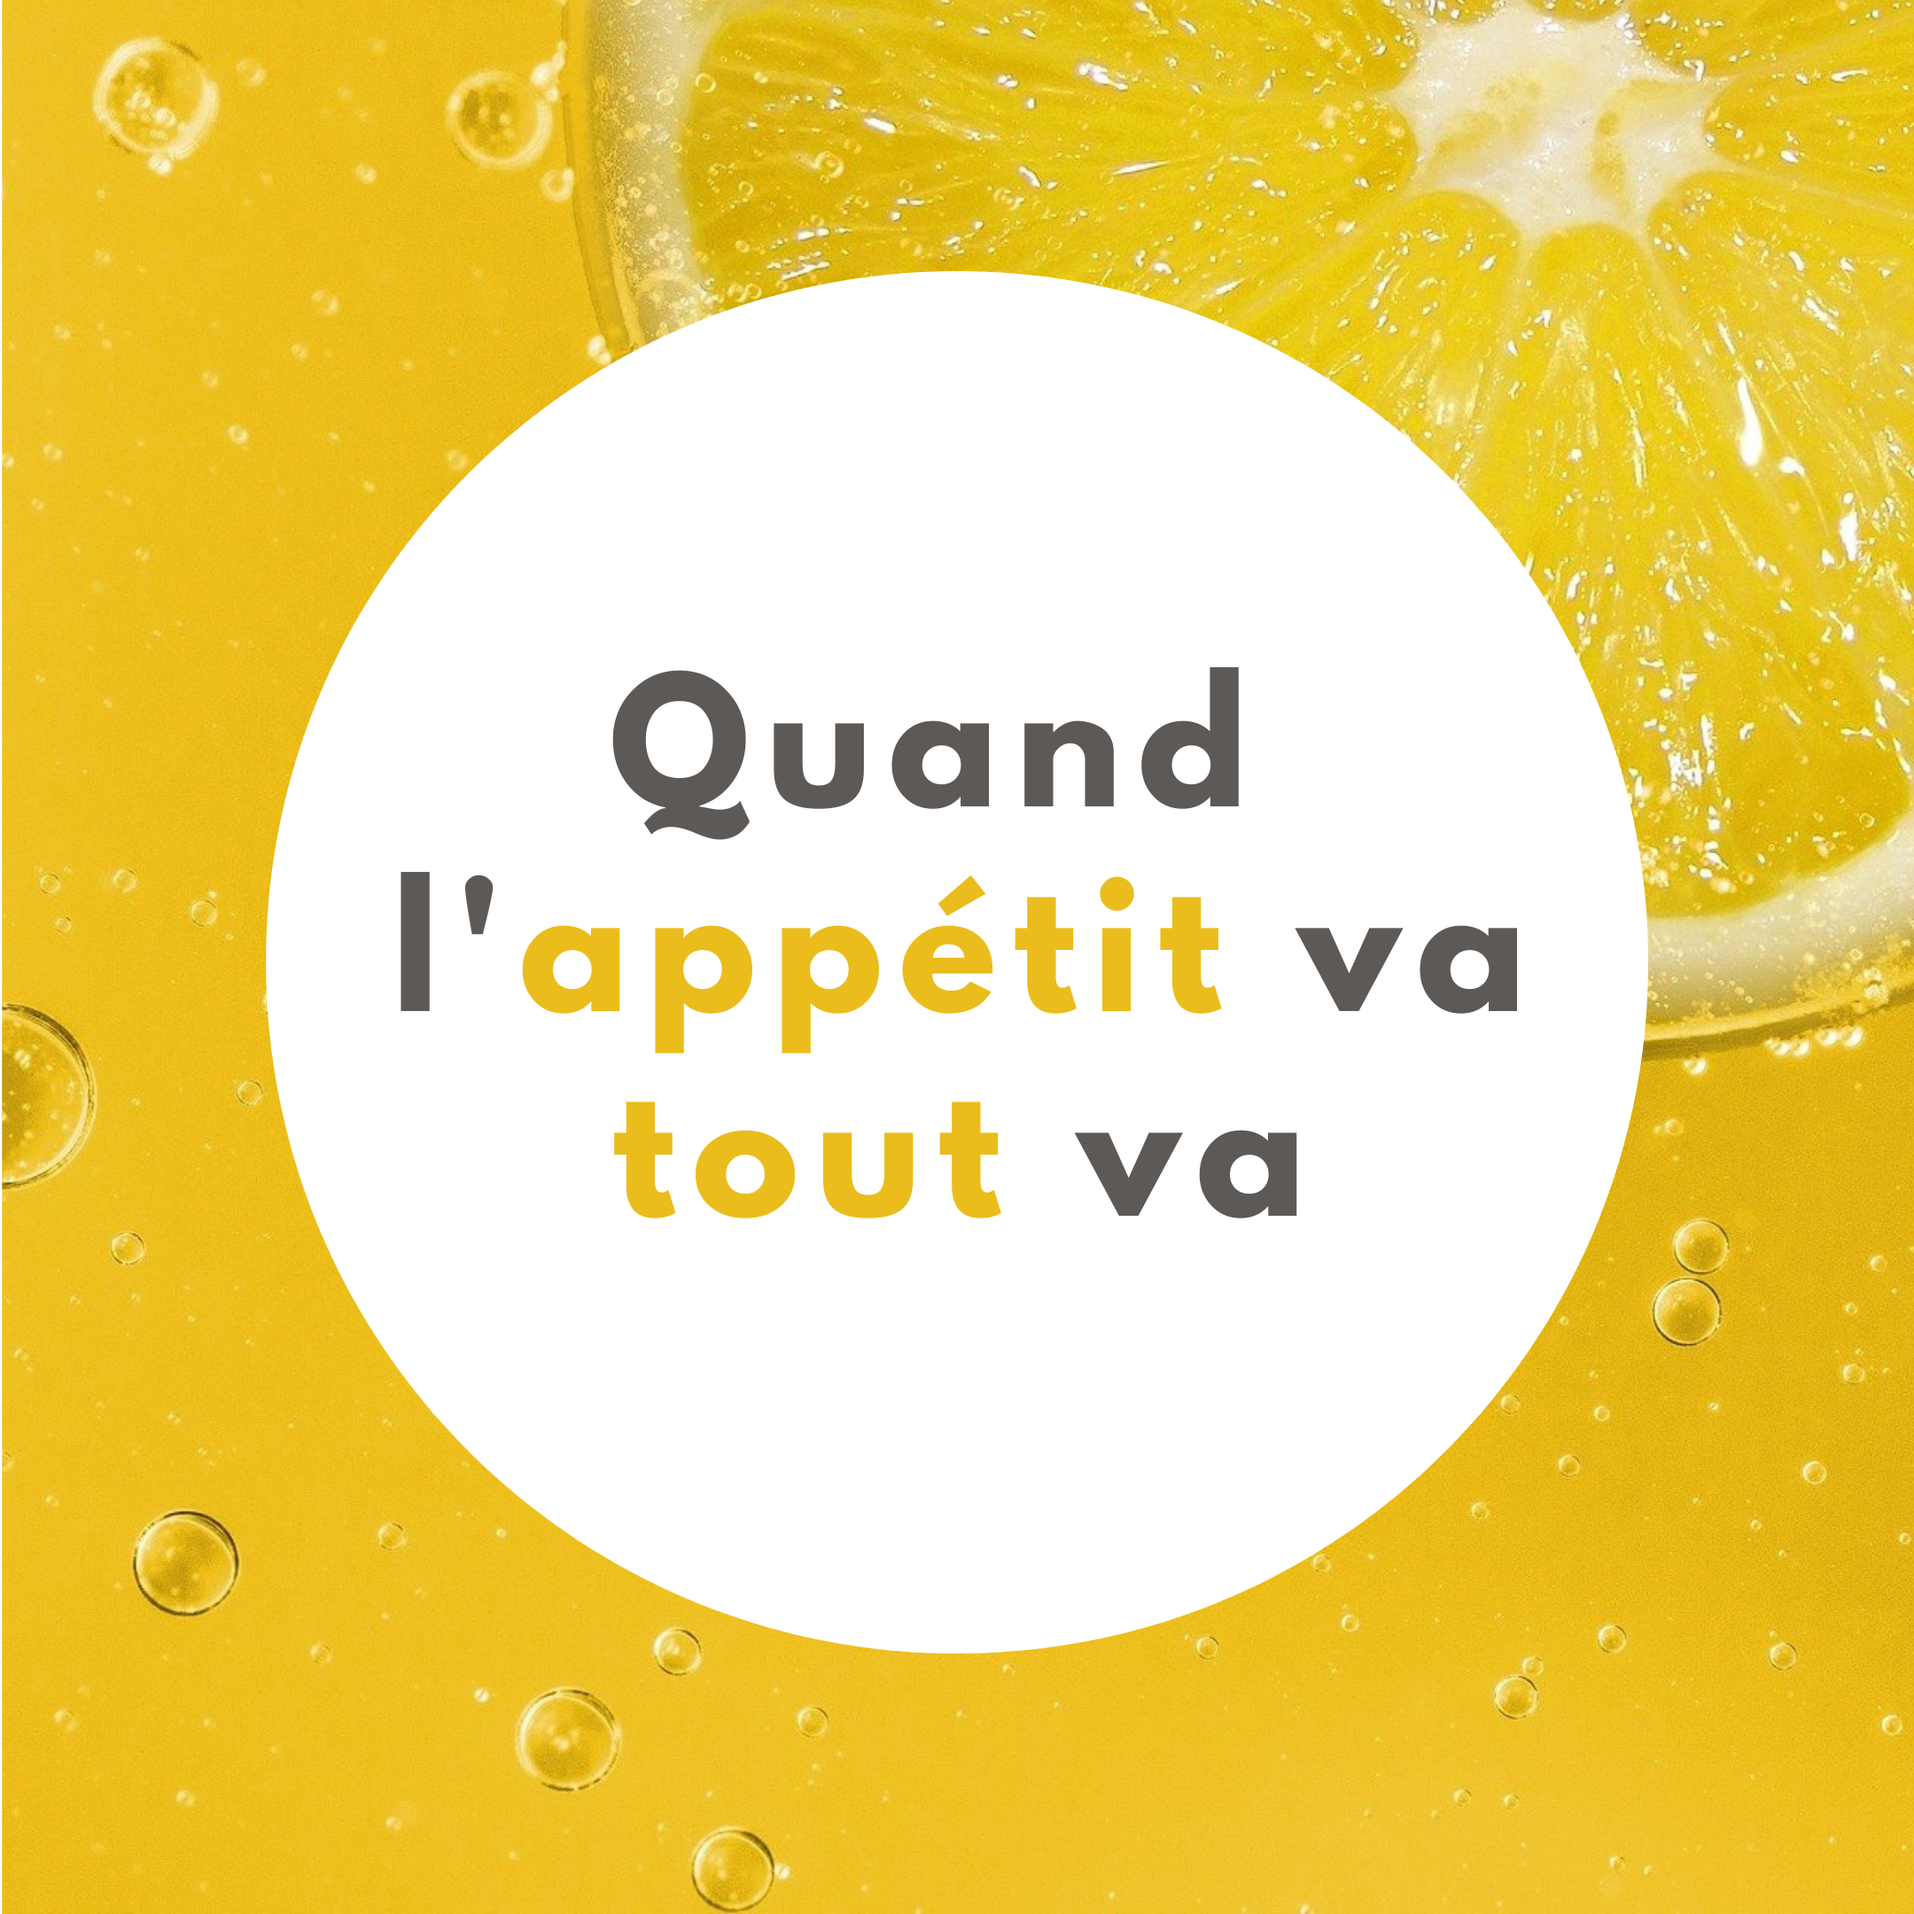
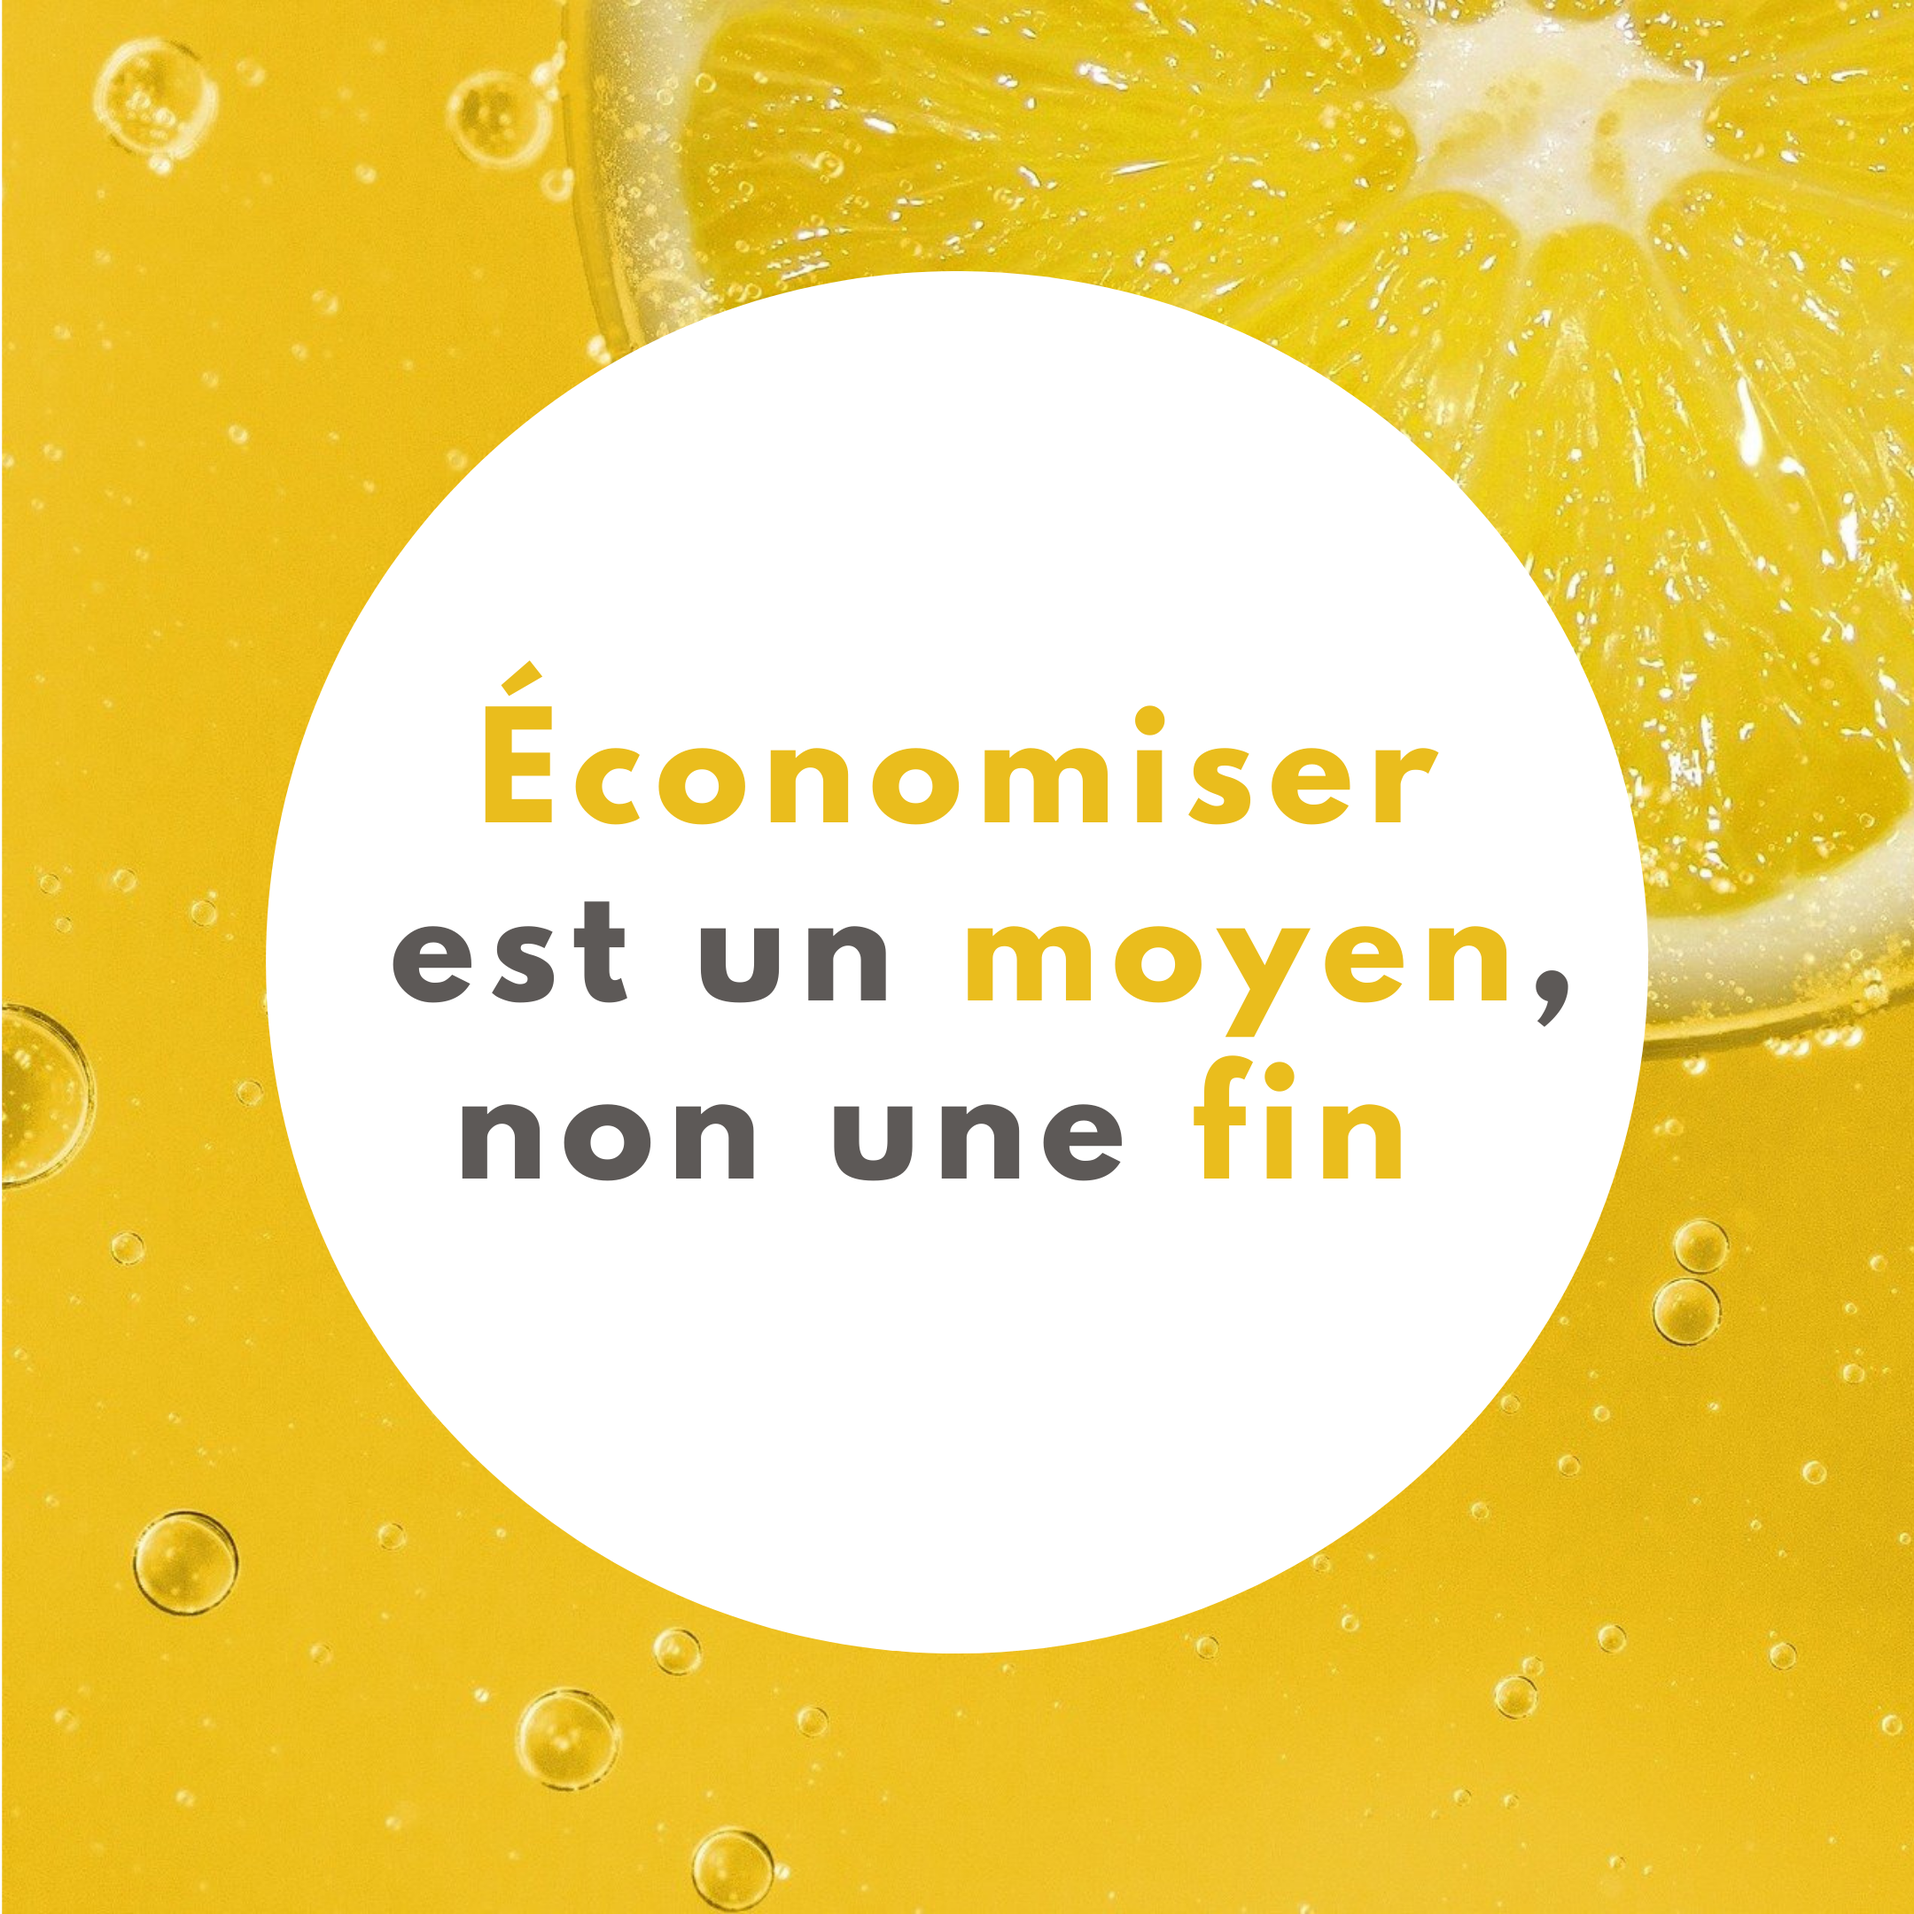
add article

Changed region(s): [[0.1861, 0.4343, 0.8375, 0.6514], [0.2481, 0.3412, 0.7444, 0.4343]]

diff --git a/_posts/2021-08-20-reco_cenwen.md b/_posts/2021-08-20-reco_cenwen.md
@@ -4,6 +4,7 @@ title:  "Un coup d'oeil sur : Simplement Cenwen"
 categories: [ cuisine, argent, budget, recommandation ]
 image: assets/images/posts/7-3-img.png
 source: Image de fond par <a href="https://pixabay.com/fr/users/comfreak-51581/?utm_source=link-attribution&amp;utm_medium=referral&amp;utm_campaign=image&amp;utm_content=1444025">Comfreak</a> de <a href="https://pixabay.com/fr/?utm_source=link-attribution&amp;utm_medium=referral&amp;utm_campaign=image&amp;utm_content=1444025">Pixabay</a>---
+---
 
 Cenwen est un blog dédié à la cuisine et elle a créé un concept que je trouve très utile : « les recettes fins de mois difficile »
 

diff --git a/_posts/2021-08-16-citation_moyen.md b/_posts/2021-08-16-citation_moyen.md
@@ -1,7 +1,7 @@
 ---
 layout: post
-title:  "Quand l'appétit va, tout va !"
-categories: [ citation, alimentation, budget, argent]
+title:  "Economiser est un moyen non une fin"
+categories: [ citation, économies, budget, argent, motivation]
 image: assets/images/posts/7-1-img.png
 source: Image de fond par <a href="https://pixabay.com/fr/users/comfreak-51581/?utm_source=link-attribution&amp;utm_medium=referral&amp;utm_campaign=image&amp;utm_content=1444025">Comfreak</a> de <a href="https://pixabay.com/fr/?utm_source=link-attribution&amp;utm_medium=referral&amp;utm_campaign=image&amp;utm_content=1444025">Pixabay</a>
 ---

diff --git a/_posts/2021-08-23-citation_appetit.md b/_posts/2021-08-23-citation_appetit.md
@@ -1,0 +1,7 @@
+---
+layout: post
+title:  "Quand l'appétit va, tout va !"
+categories: [ citation, alimentation, budget, argent]
+image: assets/images/posts/8-1-img.png
+source: Image par <a href="https://pixabay.com/fr/users/couleur-1195798/?utm_source=link-attribution&amp;utm_medium=referral&amp;utm_campaign=image&amp;utm_content=3381416">Couleur</a> de <a href="https://pixabay.com/fr/?utm_source=link-attribution&amp;utm_medium=referral&amp;utm_campaign=image&amp;utm_content=3381416">Pixabay</a>
+---
